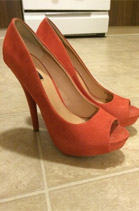
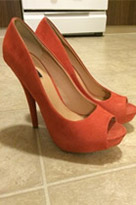
страница мои вещи, десктопная версия. высота карточек под вопросом - в макете она одинаковая, но картинки разные. в данном случае тупо подогнала картинки под одну высоту

diff --git a/src/my-items.html b/src/my-items.html
@@ -36,7 +36,7 @@
         <div class="filter-block row">
 
 
-          <h1 class="page-title">Мои вещи</h1>
+          <h1 class="page-title  page-title--my-items">Мои вещи</h1>
 
 
           <div class="filter">
@@ -67,7 +67,7 @@
             <!-- полупрозрачный флажок сверху карточки. по модификаторам blue yellow green включается цвет, по модификаторам fullsize и square - размер,  по модификаторам добавляется текст: checkin - на проверке, quick-sell - продать быстрее, delivery - доставка, по модификатору arrow добавляется иконка стрелки -->
             <a href="#" class="gallery-item__flag  gallery-item__flag--fullsize  gallery-item__flag--blue  gallery-item__flag--checkin"></a>
 
-            <img src="img/gallery-item-1.jpg" alt="" class="gallery-item__image">
+            <img src="img/gallery-item-1.jpg" width="136" height="205" alt="" class="gallery-item__image">
 
             <div class="gallery-item__capture">
               <div class="gallery-item__brand"></div>
@@ -93,7 +93,7 @@
             <!-- полупрозрачный флажок сверху карточки. по модификаторам blue yellow green включается цвет, по модификаторам fullsize и square - размер,  по модификаторам добавляется текст: checkin - на проверке, quick-sell - продать быстрее, delivery - доставка, по модификатору arrow добавляется иконка стрелки -->
             <a href="#" class="gallery-item__flag"></a>
 
-            <img src="img/gallery-item-2.jpg" alt="" class="gallery-item__image">
+            <img src="img/gallery-item-2.jpg" width="136" height="205" alt="" class="gallery-item__image">
 
             <div class="gallery-item__capture">
               <div class="gallery-item__brand">Michael Kors</div>
@@ -119,7 +119,7 @@
             <!-- полупрозрачный флажок сверху карточки. по модификаторам blue yellow green включается цвет, по модификаторам fullsize и square - размер,  по модификаторам добавляется текст: checkin - на проверке, quick-sell - продать быстрее, delivery - доставка, по модификатору arrow добавляется иконка стрелки -->
             <a href="#" class="gallery-item__flag  gallery-item__flag--fullsize  gallery-item__flag--yellow  gallery-item__flag--quick-sell  gallery-item__flag--arrow"></a>
 
-            <img src="img/gallery-item-3.jpg" alt="" class="gallery-item__image">
+            <img src="img/gallery-item-3.jpg" width="136" height="205" alt="" class="gallery-item__image">
 
             <div class="gallery-item__capture">
               <div class="gallery-item__brand"></div>
@@ -145,7 +145,7 @@
             <!-- полупрозрачный флажок сверху карточки. по модификаторам blue yellow green включается цвет, по модификаторам fullsize и square - размер,  по модификаторам добавляется текст: checkin - на проверке, quick-sell - продать быстрее, delivery - доставка, по модификатору arrow добавляется иконка стрелки -->
             <a href="#" class="gallery-item__flag  gallery-item__flag--square  gallery-item__flag--yellow  gallery-item__flag--arrow"></a>
 
-            <img src="img/gallery-item-4.jpg" alt="" class="gallery-item__image">
+            <img src="img/gallery-item-4.jpg" width="136" height="205" alt="" class="gallery-item__image">
 
             <div class="gallery-item__capture">
               <div class="gallery-item__brand">Michael Kors</div>
@@ -165,9 +165,9 @@
 
           <div class="add-item">
 
-            <img src="img/ico/ico-42.svg" width="75" height="75" alt="" class="add-item__image">
+            <a href="#" class="add-item__link"><img src="img/ico/ico-42.svg" width="75" height="75" alt="" class="add-item__image"></a>
 
-            <p class="add-item__text">Добавить вещь</p>
+            <p class="add-item__text"><a href="#" class="add-item__link">Добавить вещь</a></p>
 
           </div>
 
@@ -179,7 +179,7 @@
             <!-- полупрозрачный флажок сверху карточки. по модификаторам blue yellow green включается цвет, по модификаторам fullsize и square - размер,  по модификаторам добавляется текст: checkin - на проверке, quick-sell - продать быстрее, delivery - доставка, по модификатору arrow добавляется иконка стрелки -->
             <a href="#" class="gallery-item__flag  gallery-item__flag--fullsize  gallery-item__flag--green  gallery-item__flag--delivery"></a>
 
-            <img src="img/gallery-item-1.jpg" alt="" class="gallery-item__image">
+            <img src="img/gallery-item-1.jpg" width="136" height="205" alt="" class="gallery-item__image">
 
             <div class="gallery-item__capture">
               <div class="gallery-item__brand"></div>

diff --git a/src/less/base/components/gallery-item.less b/src/less/base/components/gallery-item.less
@@ -6,6 +6,7 @@
   vertical-align: top;
   margin-right: 14px;
   margin-bottom: 17px;
+  background-color: #fff;
   border-radius: 3px;
   box-shadow: 0px 1px 3px 0px rgba(8,68,95,0.05);
   overflow: hidden;
@@ -16,8 +17,8 @@
 
   //фиксированная ширина картинок для десктопа страницы избранного
   &__image {
+    display: block;
     width: 194px;
-    height: auto;
 
     //переопределение фиксированной ширины картинок для десктопа страницы "мои вещи"
     .my-items & {
@@ -68,7 +69,7 @@
 
   &__comment-like {
     position: relative;
-    margin-top: -6px;
+    margin-top: 0;
     padding-left: 4.124%;
     padding-right: 4.124%;
     padding-top: 13px;
@@ -237,14 +238,26 @@
 
     &--blue {
       background-color: rgba(110, 203, 237, 0.8);
+
+      &:hover {
+        background-color: rgba(110,203,237,1);
+      }
     }
 
     &--yellow {
       background-color: rgba(243, 189, 1, 0.8);
+
+      &:hover {
+        background-color: rgba(243,189,1,1);
+      }
     }
 
     &--green {
       background-color: rgba(23, 145, 14, 0.8);
+
+      &:hover {
+        background-color: rgba(23,145,14,1);
+      }
     }
 
     &--checkin {
@@ -311,5 +324,17 @@
 
   .gallery-item {
     margin-right: 22px;
+
+    &__comment-like {
+      display: none;
+    }
+
+    &__capture {
+      bottom: 0;
+    }
+
+    &__image {
+      height: 206px;
+    }
   }
 }

diff --git a/src/less/project/my-items.less b/src/less/project/my-items.less
@@ -4,6 +4,8 @@
 
     &--small {
       padding: 0 22px;
+      padding-top: 30px;
+      padding-bottom: 120px;
       width: 926px;
     }
   }
@@ -14,11 +16,33 @@
 }
 
 .s-4 {
-  padding: 0;
+  padding-left: 14px;
+
 }
 
+//отрицательный маргин контейнера с картинками, равный по модулю маргину отдельной картинки
 .my-items-gallery {
+  position: relative;
   margin-right: -22px;
   width: 633px;
   font-size: 0;
+
+  &:before {
+      content: "";
+      position: absolute;
+      top: -18px;
+      left: 0;
+      width: 611px;
+      height: 1px;
+      background-color: #d1f1ff;
+    }
+}
+
+//заголовок страницы
+.page-title {
+
+  &--my-items {
+    float: left;
+    margin-bottom: 17px;
+  }
 }

diff --git a/src/less/base/components/filter.less b/src/less/base/components/filter.less
@@ -1,0 +1,41 @@
+//фильтр - навигация на странице "мои вещи"
+.filter {
+  float: right;
+
+  &__list {
+    margin: 0;
+    padding: 0;
+    padding-right: 9px;
+    list-style: none;
+  }
+
+  &__item {
+    margin-left: 28px;
+    padding: 0;
+    padding-top: 3px;
+    display: inline-block;
+    vertical-align: top;
+  }
+
+  &__link {
+    padding: 0;
+    text-decoration: none;
+    font-weight: 300;
+    font-size: 14px;
+    line-height: 40px;
+    color: @darkgray;
+
+    &--active {
+      color: @blue;
+      cursor: default;
+    }
+
+    &:hover {
+      color: @blue;
+    }
+
+    &:active {
+      opacity: .7;
+    }
+  }
+}

diff --git a/src/less/base/components/add-item.less b/src/less/base/components/add-item.less
@@ -2,7 +2,7 @@
   display: inline-block;
   vertical-align: top;
   margin-right: 22px;
-  padding: 40px 31px 40px 30px;
+  padding: 40px 31px 34px 30px;
   width: 75px;
   text-align: center;
   border-radius: 3px;
@@ -10,9 +10,20 @@
   background-color: #fff;
 
   &__text {
+    margin: 0;
     font-weight: 400;
     font-size: 14px;
     line-height: 18px;
+  }
+
+  &__link {
+    display: block;
+    margin-bottom: 6px;
+    text-decoration: none;
     color: #d1f1ff;
+
+    &:hover {
+      opacity: .7;
+    }
   }
 }

diff --git a/src/less/style.less b/src/less/style.less
@@ -29,6 +29,7 @@
 @import "base/components/faq.less"; //блок вопрос-ответ на странице инфо
 @import "base/components/gallery-item.less"; //карточка товара в избранном
 @import "base/components/add-item.less"; //карточка "добавить вещь" в галерее
+@import "base/components/filter.less"; //фильтр - навигация на стр. "мои вещи"
 @import "base/components/tooltips.less"; //тултипы
 
 

diff --git a/src/less/project/favourites-page.less b/src/less/project/favourites-page.less
@@ -21,12 +21,14 @@
   padding-left: 17px;
 }
 
+//отрицательный маргин контейнера с карточками товаров, фиксированная ширина контейнера
 .favourites-gallery {
   margin-right: -14px;
   min-width: 627px;
   font-size: 0;
 }
 
+//заголовок страницы
 .page-title {
   margin-bottom: 20px;
   font-weight: 300;
